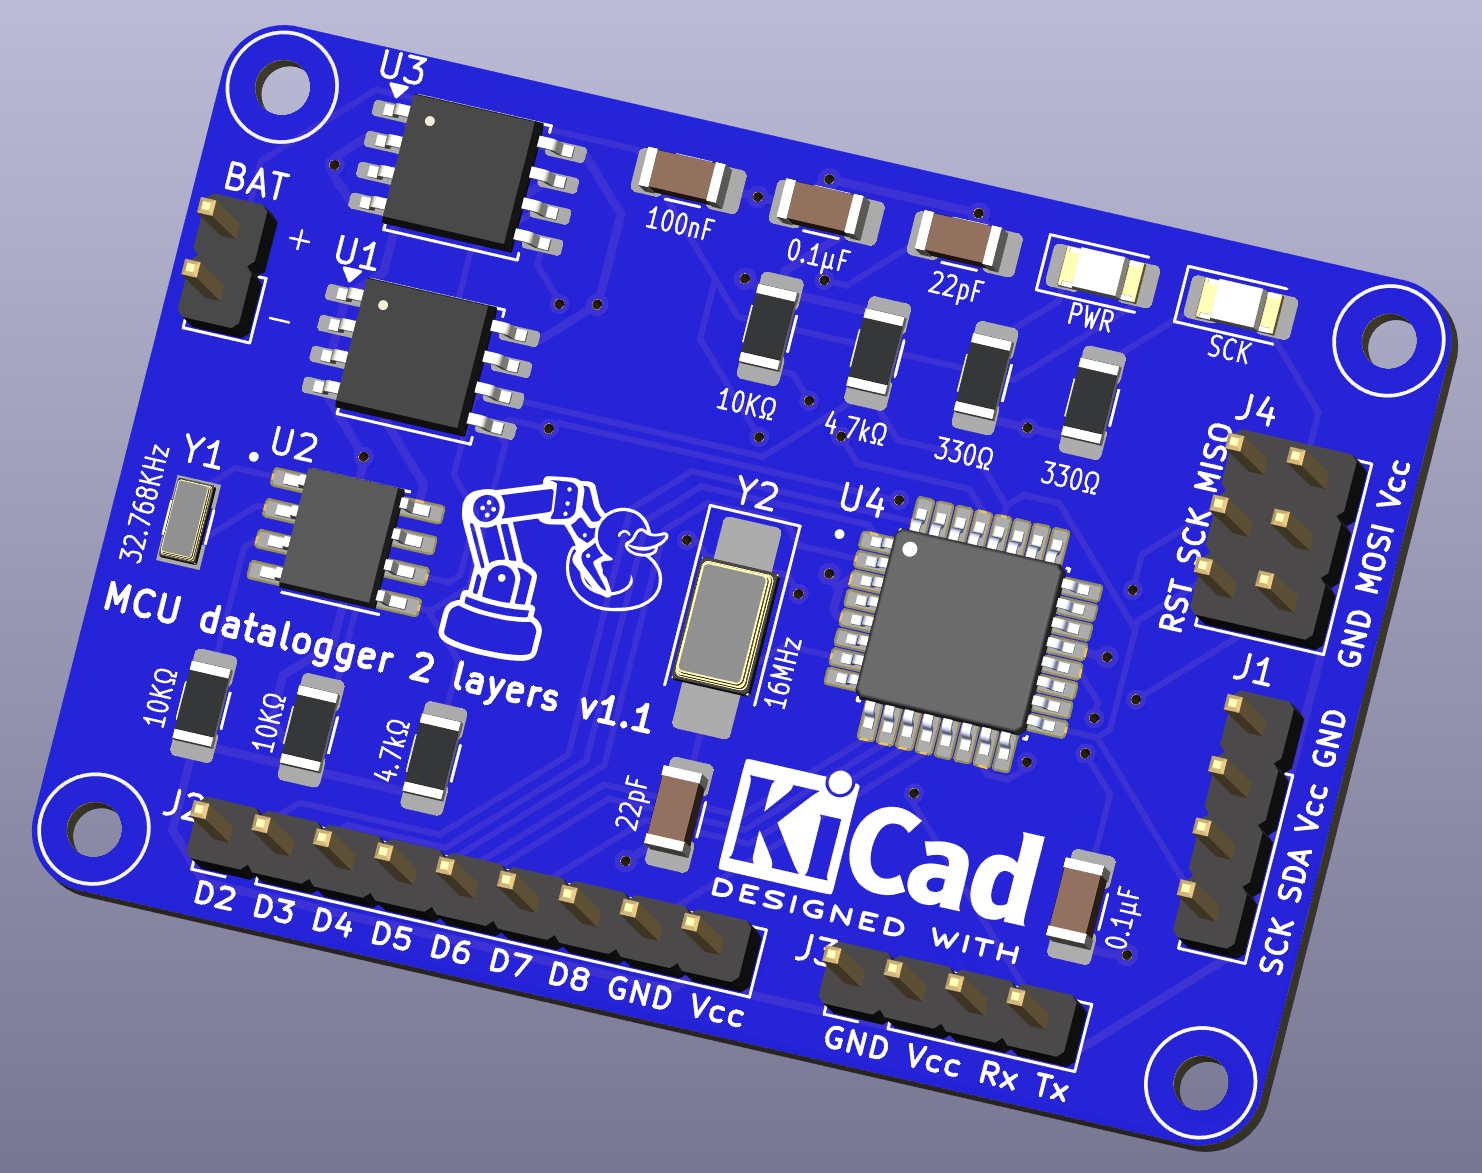
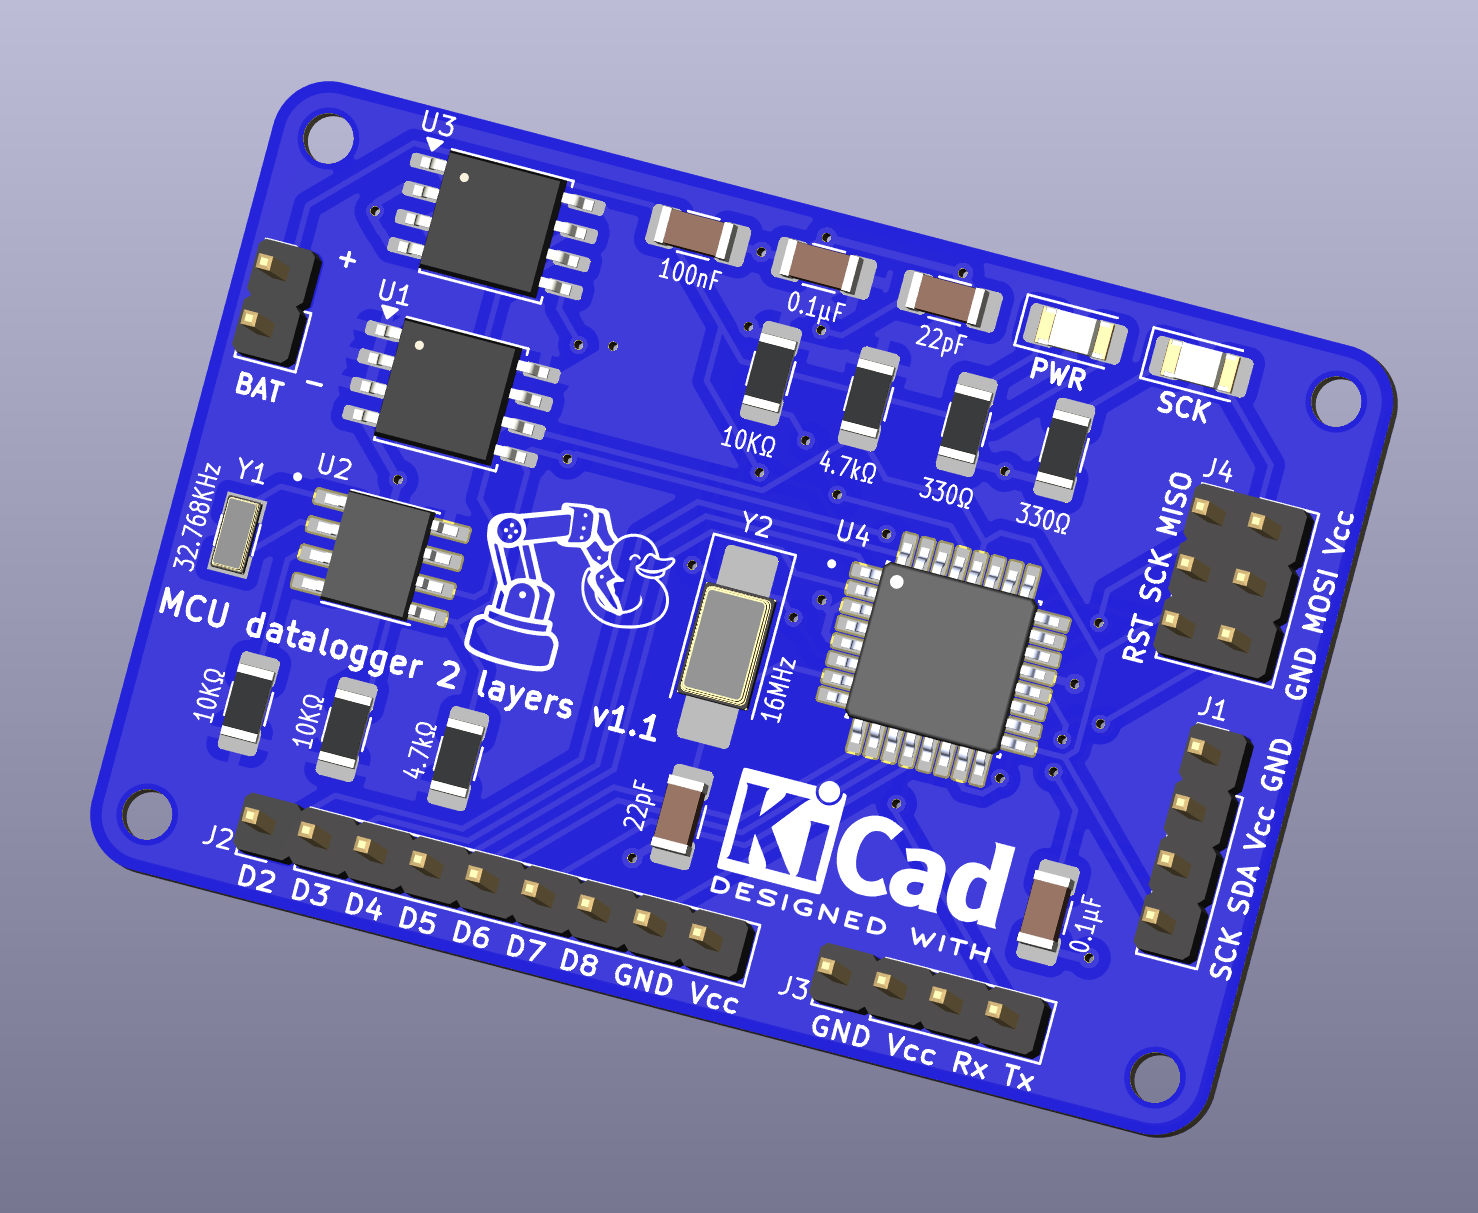
MCU datalogger v1.1 complete. Export Gerbers and update README.

diff --git a/projects/MCU_datalogger/README.md b/projects/MCU_datalogger/README.md
@@ -20,6 +20,8 @@ ATMEGA328P-AU from SNAPEDA
 
 ## v1.1
 
-Adjust edges and silkscreen
+Adjust edges and silkscreen, add Vcc fill zone
+
+![](./assets/MCU_datalogger_layout_v1.1.png)
 
 ![](./assets/MCU_datalogger_PCB_v1.1.png)
